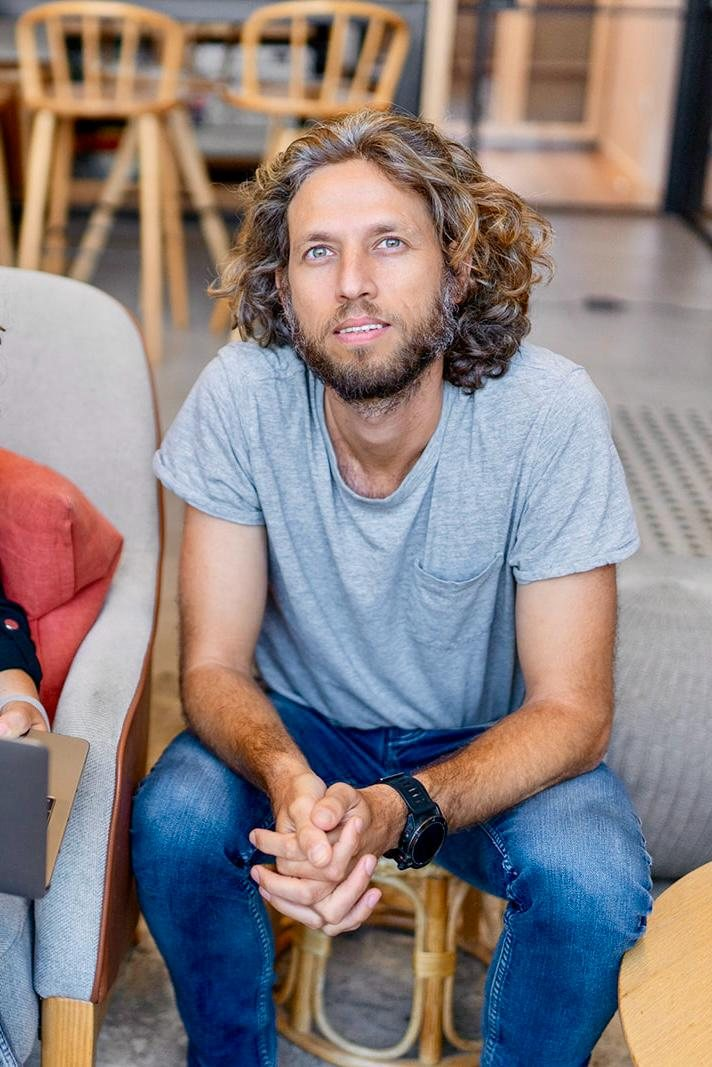
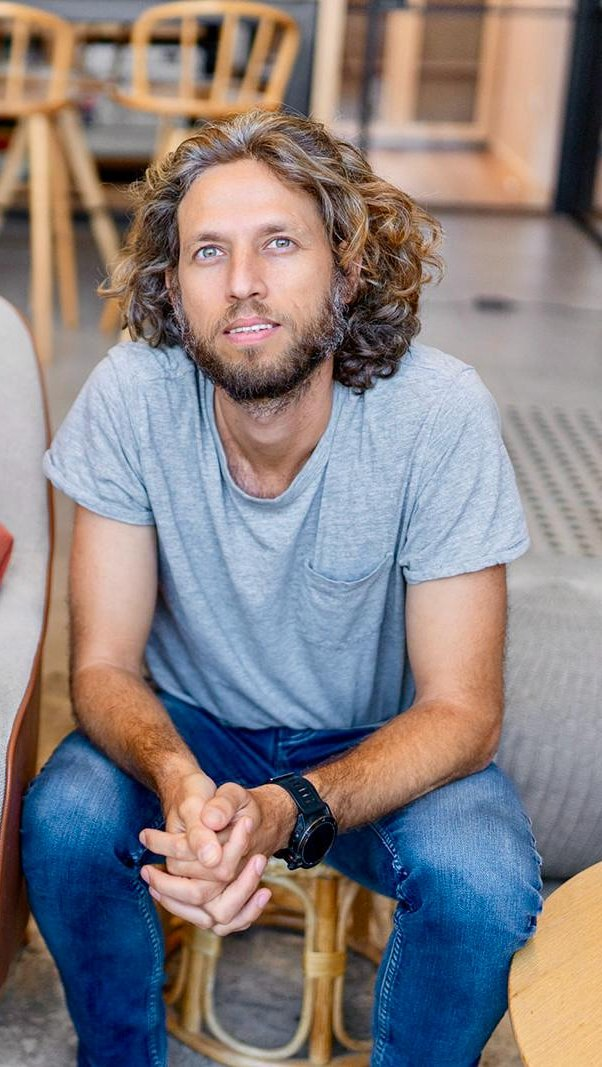
Hero photo: crop the armchair strip, keep body and hands at full strength, fade only the jeans

diff --git a/index.html b/index.html
@@ -276,21 +276,22 @@
   .hero-photo{
     position:absolute; z-index:0; margin:0;
     right:0; top:50%; transform:translateY(-50%);
-    width:min(540px, 46vw); pointer-events:none;
+    width:min(470px, 42vw); pointer-events:none;
   }
   .hero-photo img{
     width:100%; height:auto; display:block; border-radius:0;
     /* full strength on the face, only the edges melt into the page */
     /* eased (smoothstep-like) fades, so there is no visible start or end line */
     --fade-x: linear-gradient(to right,
-      rgba(0,0,0,0) 0%, rgba(0,0,0,.01) 6%, rgba(0,0,0,.04) 12%, rgba(0,0,0,.1) 18%,
-      rgba(0,0,0,.2) 25%, rgba(0,0,0,.36) 32%, rgba(0,0,0,.55) 40%, rgba(0,0,0,.74) 48%,
-      rgba(0,0,0,.9) 56%, rgba(0,0,0,.97) 64%, #000 72%);
+      rgba(0,0,0,0) 0%, rgba(0,0,0,0) 8%, rgba(0,0,0,.03) 14%, rgba(0,0,0,.12) 20%,
+      rgba(0,0,0,.3) 26%, rgba(0,0,0,.52) 32%, rgba(0,0,0,.72) 38%, rgba(0,0,0,.88) 44%,
+      rgba(0,0,0,.96) 50%, #000 58%);
     --fade-y: linear-gradient(to bottom,
-      rgba(0,0,0,0) 0%, rgba(0,0,0,.05) 4%, rgba(0,0,0,.2) 9%, rgba(0,0,0,.5) 14%,
-      rgba(0,0,0,.82) 19%, #000 26%, #000 40%, rgba(0,0,0,.93) 48%, rgba(0,0,0,.76) 56%,
-      rgba(0,0,0,.52) 64%, rgba(0,0,0,.3) 72%, rgba(0,0,0,.14) 80%, rgba(0,0,0,.05) 88%,
-      rgba(0,0,0,.01) 95%, rgba(0,0,0,0) 100%);
+      rgba(0,0,0,0) 0%, rgba(0,0,0,.04) 4%, rgba(0,0,0,.16) 8%, rgba(0,0,0,.42) 12%,
+      rgba(0,0,0,.72) 16%, rgba(0,0,0,.92) 20%, #000 25%, #000 80%,
+      rgba(0,0,0,.9) 84%, rgba(0,0,0,.66) 88%, rgba(0,0,0,.38) 92%, rgba(0,0,0,.14) 96%,
+      rgba(0,0,0,0) 100%);
+    clip-path:inset(1px 1px 1px 4%);
     -webkit-mask-image:var(--fade-x), var(--fade-y);
     -webkit-mask-composite:source-in;
     mask-image:var(--fade-x), var(--fade-y);
@@ -406,7 +407,7 @@
     </div>
    </div>
    <figure class="hero-photo">
-     <img src="photo.jpg?v=5" alt="Amit Reisman" width="712" height="1067" decoding="async">
+     <img src="photo.jpg?v=6" alt="Amit Reisman" width="602" height="1067" decoding="async">
    </figure>
   </div>
 </header>
